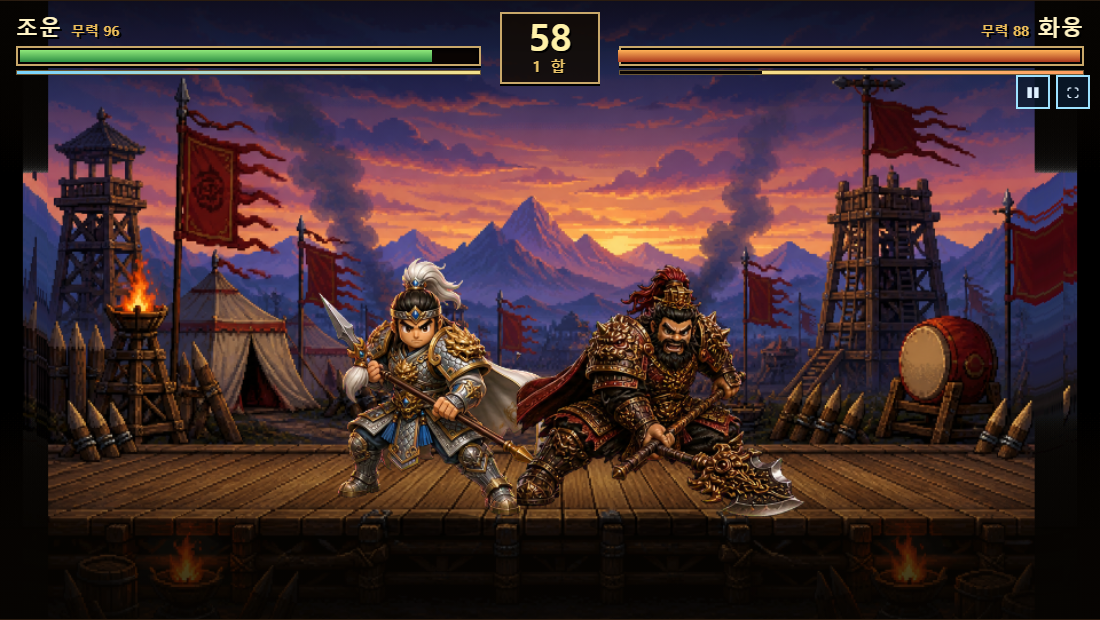
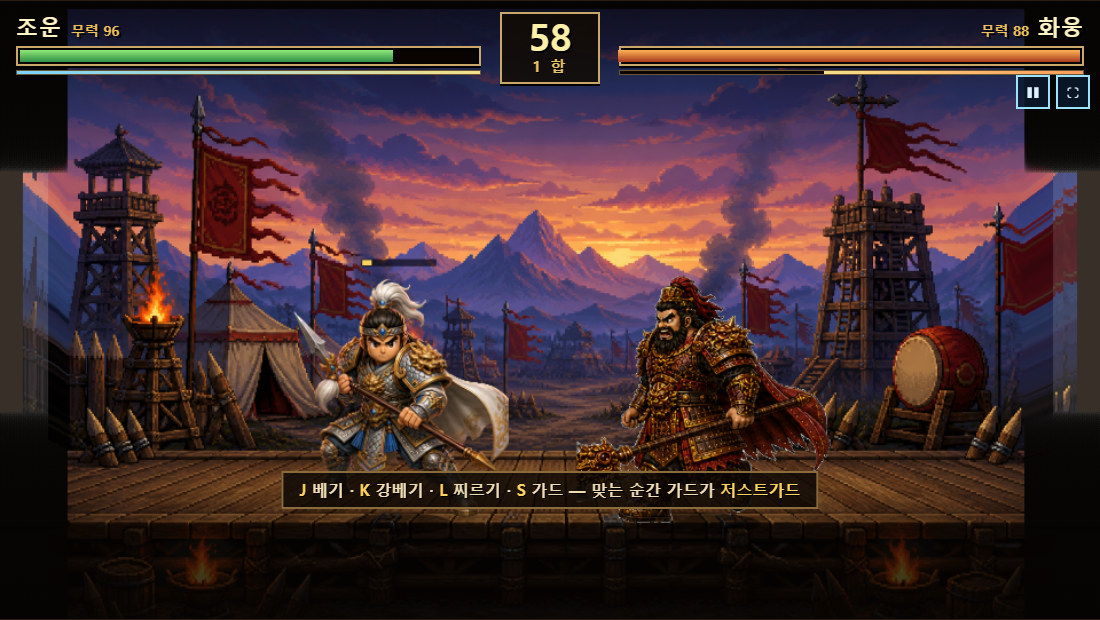
chore: duel_v2 진행분 스냅샷 (프로토타입 +86/-27, 캡처 갱신·추가)
병행 세션의 duel_v2 작업이 이어져 있어 현재 상태를 그대로 담는다.
  · duel_v2.html  86줄 추가 / 27줄 삭제 (55.6KB)
  · 기존 캡처 11장 갱신
  · 신규 캡처 3장 — a2_closest / loading / after_slowload

내용 검토는 하지 않았고 유실 방지를 위한 스냅샷이다.
JS 문법 검사만 통과 확인함(inline script 946줄 OK).

diff --git a/duel_v2.html b/duel_v2.html
@@ -79,6 +79,17 @@ canvas{display:block;width:100%;height:100%;touch-action:none;background:#120b06
 @keyframes bannerIn{0%{opacity:0;transform:scale(2.4) rotate(-4deg)}22%{opacity:1;transform:scale(1) rotate(0)}
   72%{opacity:1}100%{opacity:0;transform:scale(1.08)}}
 
+/* 개시 직후 몇 초만 뜨는 조작 안내 — 전투 중 화면에 설명이 하나도 없으면
+   플레이어는 무엇을 하는 게임인지 모른 채 얻어맞기만 한다 */
+/* 아래쪽에 둔다 — 위는 개시 배너("일기토")가 쓰는 자리다 */
+#tip{position:absolute;left:50%;bottom:calc(96*var(--u) + var(--safe-b));transform:translateX(-50%);z-index:6;
+  padding:calc(6*var(--u)) calc(14*var(--u));white-space:nowrap;pointer-events:none;
+  background:#0a0604d0;border:calc(2*var(--u)) solid #8a6c3c;
+  font-size:calc(14*var(--u));font-weight:900;color:#f0dcb4;text-shadow:1px 1px 0 #000;
+  opacity:0;transition:opacity .5s ease}
+#tip.show{opacity:1}
+#tip b{color:var(--gold)}
+
 /* ── 모바일 조작 패드 ──────────────────────────────────────────── */
 #pad{position:absolute;left:0;right:0;bottom:0;z-index:7;padding:0 calc(14*var(--u)) calc(10*var(--u) + var(--safe-b));
   display:flex;justify-content:space-between;align-items:flex-end;pointer-events:none}
@@ -118,6 +129,8 @@ canvas{display:block;width:100%;height:100%;touch-action:none;background:#120b06
   border:3px solid #fff0ad;background:linear-gradient(#e8ab2c,#a86a10);color:#2a1200;
   box-shadow:0 5px 0 #4a2a06,0 10px 26px #000a;letter-spacing:4px}
 .go:active{transform:translateY(4px);box-shadow:0 1px 0 #4a2a06}
+.go:disabled{cursor:progress;filter:grayscale(.7) brightness(.62);letter-spacing:1px}
+.go:disabled:active{transform:none;box-shadow:0 5px 0 #4a2a06,0 10px 26px #000a}
 .go:focus-visible,.pick:focus-visible{outline:3px solid #9de2ff;outline-offset:3px}
 .keys{margin-top:14px;font-size:clamp(10px,1.5vw,12px);color:#b79a6d;line-height:1.9}
 .keys b{color:#ffd45c}
@@ -153,6 +166,7 @@ canvas{display:block;width:100%;height:100%;touch-action:none;background:#120b06
   </div>
 
   <div id="banner" aria-live="polite"></div>
+  <div id="tip"></div>
 
   <div id="pad">
     <div class="cluster">
@@ -251,14 +265,22 @@ const META = {
   },
 };
 
-function loadAssets() {
-  const keys = Object.keys(ASSET_SRC);
+// 에셋 총량이 11MB대다. 진행 표시 없이 받으면 첫 방문자는 검은 화면만 본다.
+// 게다가 전부 기다릴 이유가 없다 — 배경과 양쪽 포즈 시트(3.4MB)만 있으면 결투는 성립하고,
+// 걷기·공격·피격 시트는 없는 동안 pickFrame() 이 포즈 프레임으로 대체한다.
+const CORE_ASSETS = ['bg', 'pPose', 'bPose'];
+let assetsReady = false;
+function loadAssets(keys, onProgress) {
   let done = 0;
   return new Promise(resolve => {
     keys.forEach(k => {
       const img = new Image();
       A[k] = img;
-      const tick = () => { if (++done === keys.length) resolve(); };
+      const tick = () => {
+        done++;
+        onProgress?.(done / keys.length);
+        if (done === keys.length) resolve();
+      };
       img.onload = tick;
       img.onerror = tick;   // 하나 빠져도 결투는 계속된다(해당 모션만 포즈 시트로 대체)
       img.src = ASSET_SRC[k];
@@ -271,14 +293,14 @@ const ready = img => !!(img && img.complete && img.naturalWidth);
 //  2. 기술표 — 프레임 단위(60fps). 여기 숫자가 곧 손맛이다.
 //     startup: 칼이 나가기까지 / active: 판정 / recovery: 후딜
 // ═══════════════════════════════════════════════════════════════════
-// 사정거리는 '중심 간 거리' 기준. 두 장수가 겹치지 않는 최소 간격(SEPARATE)이 160이라
+// 사정거리는 '중심 간 거리' 기준. 두 장수가 겹치지 않는 최소 간격(SEPARATE=205)이 하한이라
 // 어떤 기술도 그보다 짧으면 영영 닿지 않는다 — 아래 값은 전부 그 위에서 잡았다.
 const MOVES = {
-  light:  { startup: 8,  active: 4, recovery: 13, dmg: 9,  reach: 190, push: 5,  stam: 8,
+  light:  { startup: 8,  active: 4, recovery: 13, dmg: 9,  reach: 240, push: 5,  stam: 8,
             label: '베기',   guardChip: 1.5, stunAdd: 6,  sheet: 'light',  arc: 'wide'  },
-  thrust: { startup: 13, active: 5, recovery: 19, dmg: 14, reach: 258, push: 9,  stam: 14,
+  thrust: { startup: 13, active: 5, recovery: 19, dmg: 14, reach: 310, push: 9,  stam: 14,
             label: '찌르기', guardChip: 3,   stunAdd: 10, sheet: 'thrust', arc: 'line'  },
-  heavy:  { startup: 21, active: 6, recovery: 26, dmg: 24, reach: 212, push: 22, stam: 24,
+  heavy:  { startup: 21, active: 6, recovery: 26, dmg: 24, reach: 262, push: 22, stam: 24,
             label: '강베기', guardChip: 9,   stunAdd: 22, sheet: 'heavy',  arc: 'heavy',
             crush: true },   // 가드해도 기력을 크게 깎는다 — 계속 막기만 하면 무너진다
 };
@@ -596,8 +618,8 @@ function stepFighter(f) {
 
 function separate() {
   // 두 장수가 겹치지 않게 밀어낸다 — 붙어서 뚫고 지나가면 결투가 안 된다
-  // 스프라이트 폭이 크다 — 90px대로 붙이면 두 장수가 서로를 뚫고 겹쳐 보인다
-  const d = B.x - P.x, min = 160;
+  // 스프라이트 폭이 월드 250px대다. 이보다 좁게 붙이면 두 장수가 서로를 뚫고 겹친다.
+  const d = B.x - P.x, min = 205;
   if (Math.abs(d) < min) {
     const push = (min - Math.abs(d)) / 2 * sign(d || 1);
     P.x -= push; B.x += push;
@@ -635,7 +657,7 @@ function updateAI() {
   ai.t++;
 
   // 플레이어가 후딜에 걸렸다 → 확정 처벌
-  if (P.state === 'recover' && dist < 250 && ai.react-- <= 0) {
+  if (P.state === 'recover' && dist < 300 && ai.react-- <= 0) {
     if (dist < MOVES.heavy.reach && B.stam > MOVES.heavy.stam && Math.random() < .55) { startMove(B, 'heavy'); return; }
     if (dist < MOVES.thrust.reach) { startMove(B, 'thrust'); return; }
   }
@@ -643,7 +665,7 @@ function updateAI() {
   if (helpless(P) && dist < MOVES.heavy.reach + 30 && B.stam > MOVES.heavy.stam) { startMove(B, 'heavy'); return; }
 
   // 플레이어가 칼을 뽑았다 → 막거나 뺀다
-  if (P.state === 'windup' && dist < 280) {
+  if (P.state === 'windup' && dist < 330) {
     if (ai.react > 0) { ai.react--; }
     else if (Math.random() < diff.guard) {
       B.guardHeld = true;
@@ -657,17 +679,17 @@ function updateAI() {
 
   // 거리 관리 — '닿는 거리'가 기준이다.
   // 여유(margin)를 두는 이유: 판정은 active 프레임에 나는데 그 사이 상대가 움직인다.
-  const MARGIN = 18;
+  const MARGIN = 24;
   const canReach = k => dist <= MOVES[k].reach - MARGIN;
   const inPocket = dist <= MOVES.thrust.reach - MARGIN;   // 가장 긴 기술이 닿는 범위
 
   if (!inPocket) {
     // 아직 못 닿는다 → 붙는다. 멀면 대시로 거리를 지운다
-    if (dist > 360 && B.stam > 22 && Math.random() < diff.aggro * .35) startDash(B, B.dir);
+    if (dist > 420 && B.stam > 22 && Math.random() < diff.aggro * .35) startDash(B, B.dir);
     else { B.vx = B.dir * 3.1; B.state = 'walk'; B.walkClock++; }
     return;
   }
-  if (dist < 172) {                       // 너무 붙었다 → 도끼를 휘두를 공간을 만든다
+  if (dist < 218) {                       // 너무 붙었다 → 도끼를 휘두를 공간을 만든다
     B.vx = -B.dir * 2.4; B.state = 'walk'; B.walkClock++;
     return;
   }
@@ -900,7 +922,9 @@ function drawFighter(f) {
   // f.x 는 논리 중심이고 컷 사각형은 무기 쪽으로 치우쳐 있어서, 그대로 쓰면 게이지가 옆으로 샌다.
   if (f.stun > 6 && f.state !== 'ko') {
     const visCx = f.x + f.dir * (dw * (0.5 - m.anchor) + ox * scale);
-    const w = 84, r = f.stun / STUN_MAX, top = GROUND - dh - 22;
+    // 컷 사각형에 머리 위 여백이 많이 붙은 프레임(피격 포즈 등)이 있어 dh 를 그대로 쓰면
+    // 게이지가 허공에 뜬다 — 실제 키 근처로 상한을 건다.
+    const w = 84, r = f.stun / STUN_MAX, top = GROUND - Math.min(dh, 300) - 16;
     ctx.save();
     ctx.fillStyle = 'rgba(0,0,0,.6)'; ctx.fillRect(visCx - w / 2, top, w, 8);
     ctx.fillStyle = r > .75 ? '#ff6a3c' : '#ffd45c'; ctx.fillRect(visCx - w / 2 + 1, top + 1, (w - 2) * r, 6);
@@ -926,14 +950,24 @@ function drawFx() {
       const t = 1 - p.life / p.max, k = 1 / cam.zoom;
       ctx.save(); ctx.globalAlpha = (1 - t) * .85; ctx.translate(p.x, p.y); ctx.scale(p.dir, 1);
       ctx.strokeStyle = '#fff8dc'; ctx.lineCap = 'round';
-      ctx.lineWidth = (p.kind === 'heavy' ? 13 : p.kind === 'line' ? 6 : 9) * k * (1 - t * .5);
-      ctx.beginPath();
-      if (p.kind === 'line') { ctx.moveTo(-40, 0); ctx.lineTo(120 + t * 70, 0); }
-      else {
+      if (p.kind === 'line') {
+        // 찌르기는 균일한 굵기의 선으로 그리면 흰 막대가 화면에 걸린 것처럼 보인다.
+        // 뿌리는 두껍고 끝은 뾰족한 방추형으로 — 그래야 '찔러 나간' 방향이 읽힌다.
+        const tip = 150 + t * 90, back = -50, half = 7 * k * (1 - t * .55);
+        ctx.fillStyle = '#fff8dc';
+        ctx.beginPath();
+        ctx.moveTo(tip, 0);
+        ctx.quadraticCurveTo(back * .3, -half, back, 0);
+        ctx.quadraticCurveTo(back * .3, half, tip, 0);
+        ctx.fill();
+      } else {
+        ctx.lineWidth = (p.kind === 'heavy' ? 13 : 9) * k * (1 - t * .5);
         const r = (p.kind === 'heavy' ? 108 : 82) * (0.85 + t * .35);
+        ctx.beginPath();
         ctx.arc(-14, -6, r, -1.15 + t * .45, 0.55 + t * .45);
+        ctx.stroke();
       }
-      ctx.stroke(); ctx.restore();
+      ctx.restore();
     } else if (p.t === 'num') {
       const t = 1 - p.life / p.max, k = 1 / cam.zoom;
       ctx.globalAlpha = clamp(2 - t * 2.4, 0, 1);
@@ -1019,12 +1053,26 @@ function showResult(kind) {
   phase = 'result';
 }
 
+let touchMode = false;
+let tipTimer = 0;
+function showTip(html, ms = 4200) {
+  const el = $('tip');
+  el.innerHTML = html;
+  el.classList.add('show');
+  clearTimeout(tipTimer);
+  tipTimer = setTimeout(() => el.classList.remove('show'), ms);
+}
+
 function startFight() {
+  if (!assetsReady) return;          // 로딩 중엔 시작 금지
   $('overlay').hidden = true;
   $('ovVs').style.display = '';
   resetMatch();
   phase = 'fight';
   banner('일 기 토', '#ffd45c', 1);
+  showTip(touchMode
+    ? '<b>베기</b>로 두드리고 <b>가드</b>로 막아라 · 맞는 순간 가드 = <b>저스트가드</b>'
+    : '<b>J</b> 베기 · <b>K</b> 강베기 · <b>L</b> 찌르기 · <b>S</b> 가드 — 맞는 순간 가드가 <b>저스트가드</b>', 5200);
 }
 
 // 난이도 선택
@@ -1063,8 +1111,8 @@ syncUnit();
 // 조작계 감지는 '실제로 무엇을 썼는가'로 — 로드 시점의 미디어쿼리만 믿으면
 // 태블릿·에뮬레이터·터치 가능한 노트북에서 틀린 UI가 뜬다.
 const padEl = $('pad'), keysEl = document.querySelector('.keys');
-function useTouch() { padEl.classList.remove('hide'); keysEl.style.display = 'none'; }
-function useKeys() { padEl.classList.add('hide'); keysEl.style.display = ''; }
+function useTouch() { touchMode = true; padEl.classList.remove('hide'); keysEl.style.display = 'none'; }
+function useKeys() { touchMode = false; padEl.classList.add('hide'); keysEl.style.display = ''; }
 addEventListener('touchstart', useTouch, { passive: true, once: true });
 addEventListener('keydown', useKeys, { once: true });
 if (matchMedia('(pointer:coarse)').matches) useTouch(); else useKeys();
@@ -1085,11 +1133,22 @@ function loop(now) {
   render();
 }
 
-loadAssets().then(() => {
-  resetMatch();
-  render();
-  requestAnimationFrame(loop);
-});
+// 루프는 '에셋을 기다리지 않고' 먼저 돈다. 예전엔 로드 완료 후에야 시작해서,
+// 다 받기 전에 결투를 누르면 phase 만 fight 로 바뀌고 화면은 검은 채 멈췄다.
+resetMatch();
+requestAnimationFrame(loop);
+
+const goBtn = $('ovGo');
+goBtn.disabled = true;
+goBtn.textContent = '불러오는 중 0%';
+const restAssets = Object.keys(ASSET_SRC).filter(k => !CORE_ASSETS.includes(k));
+loadAssets(CORE_ASSETS, p => { goBtn.textContent = '불러오는 중 ' + Math.round(p * 100) + '%'; })
+  .then(() => {
+    assetsReady = true;
+    goBtn.disabled = false;
+    goBtn.textContent = '결 투';
+    loadAssets(restAssets);          // 나머지는 뒤에서 계속 받는다
+  });
 </script>
 </body>
 </html>
